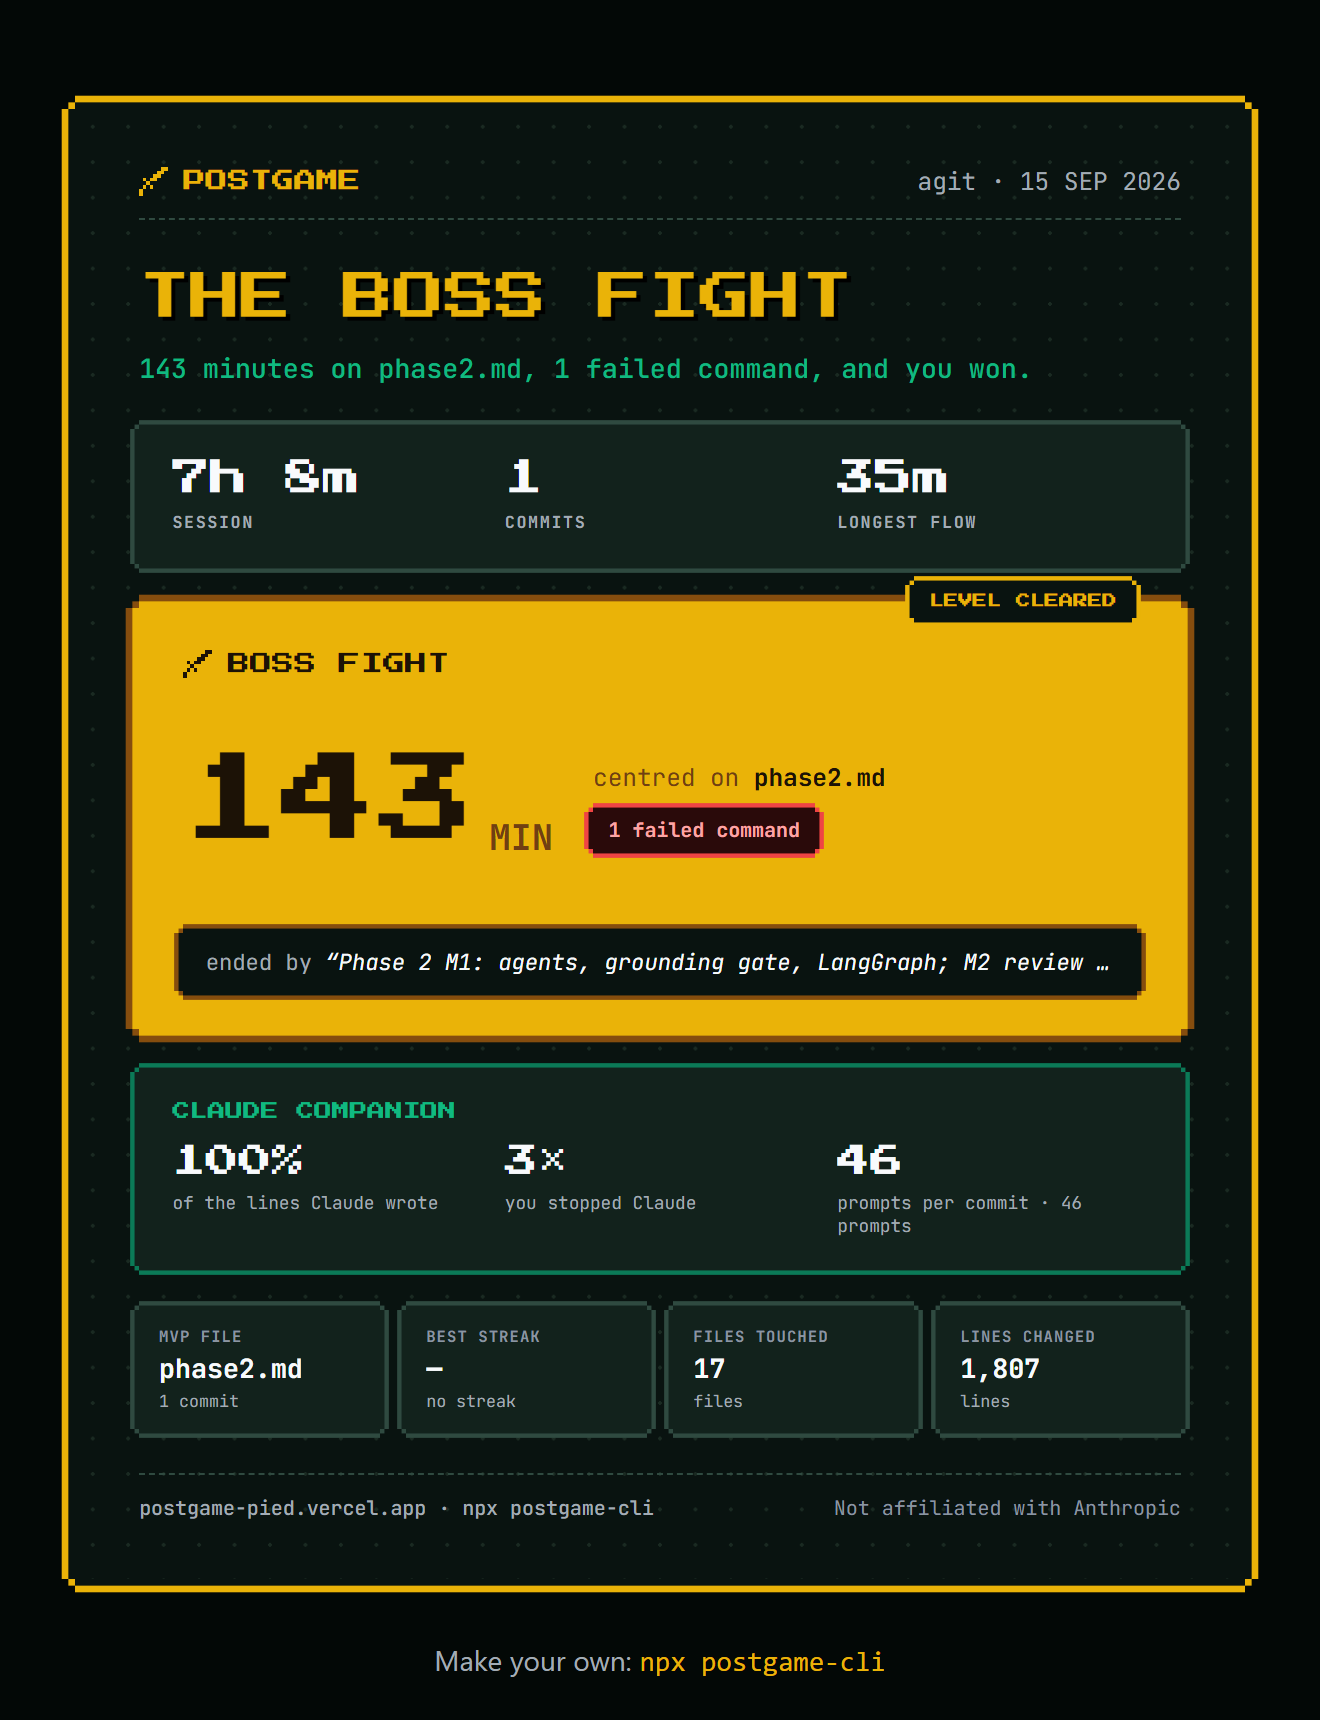
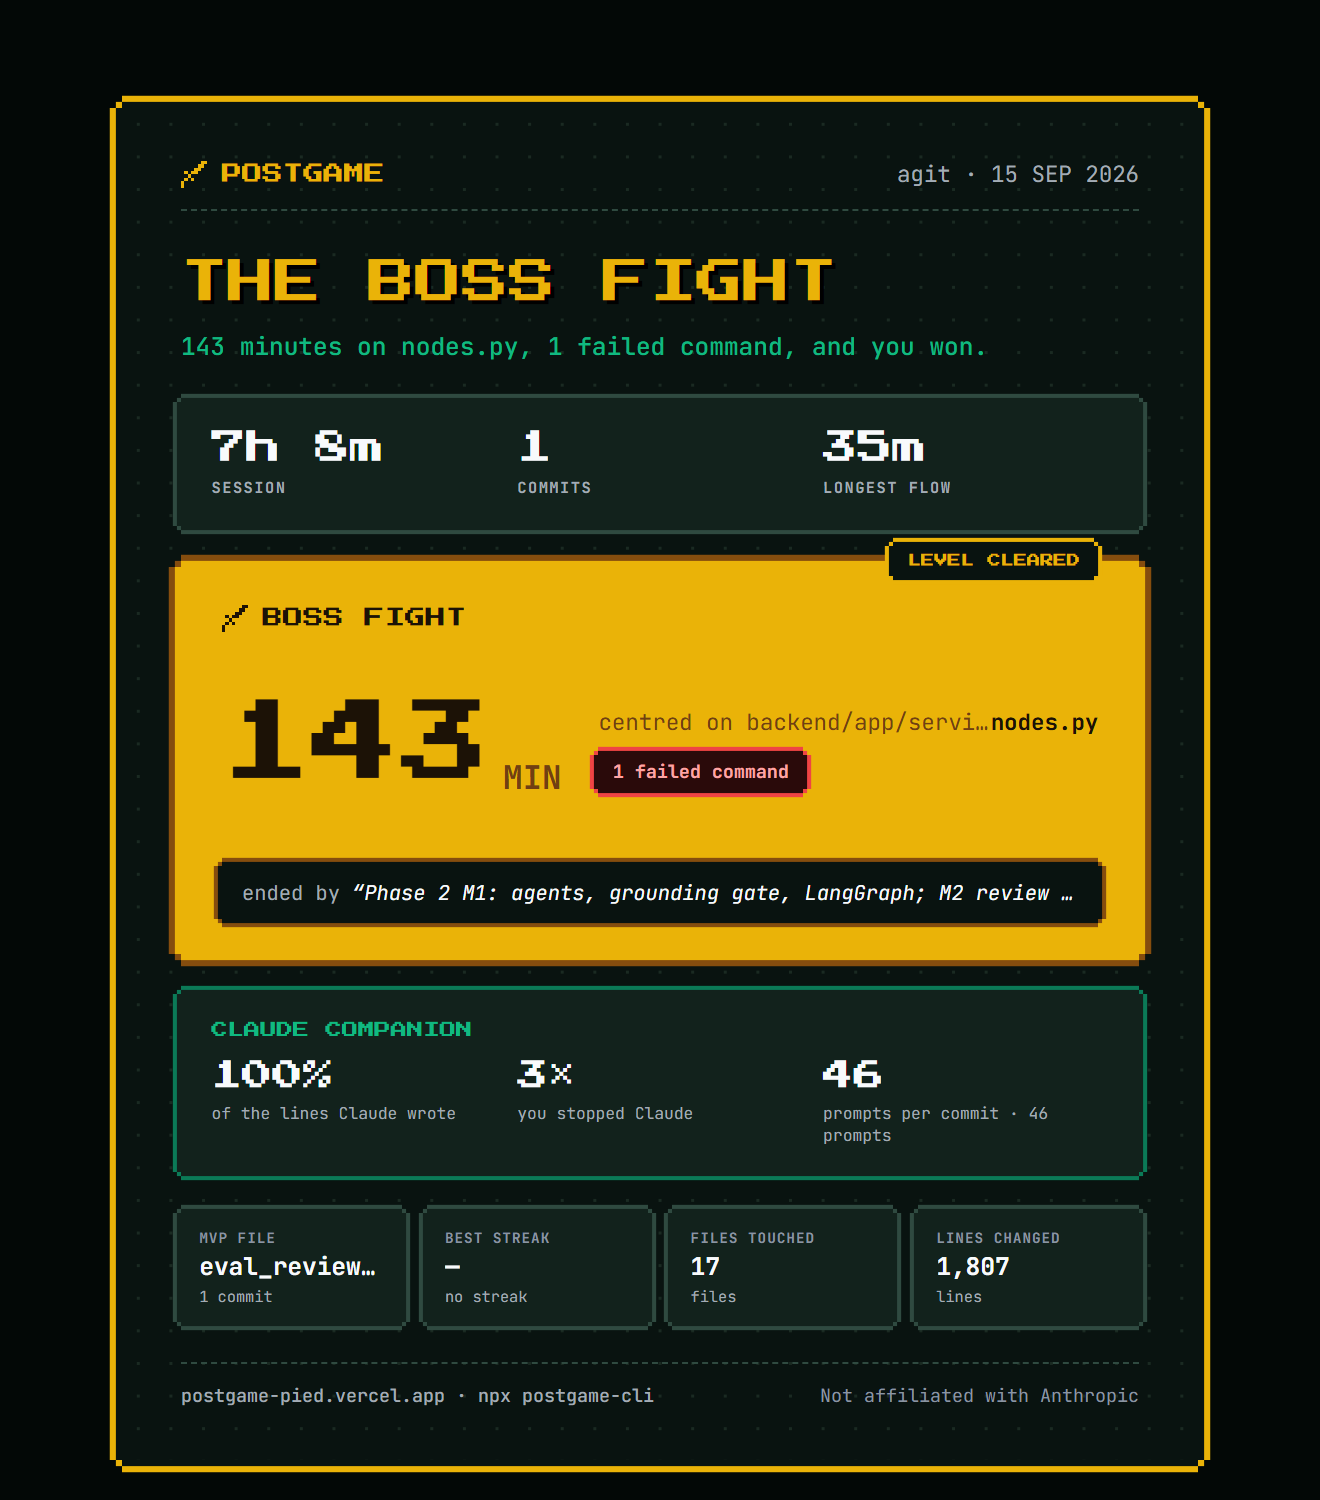
added more recap cards

diff --git a/web/components/SampleGallery.tsx b/web/components/SampleGallery.tsx
@@ -1,0 +1,36 @@
+import Link from "next/link";
+import Card from "@/components/Card/Card";
+import type { Recap } from "@/components/Card/types";
+import { SAMPLES } from "@/components/Card/format";
+import { redis, recapKey } from "@/lib/kv";
+
+export async function getSamples() {
+  try {
+    const recaps = await redis.mget<(Recap | null)[]>(...SAMPLES.map((s) => recapKey(s.id)));
+    return SAMPLES.map((s, i) => ({ ...s, recap: recaps[i] })).filter((s) => s.recap) as
+      (typeof SAMPLES[number] & { recap: Recap })[];
+  } catch {
+    return []; // storage down: the section just hides
+  }
+}
+
+// A row of small real cards, like a level-select screen. Scrolls sideways on phones.
+export default async function SampleGallery({ current }: { current?: string }) {
+  const samples = (await getSamples()).filter((s) => s.id !== current);
+  if (!samples.length) return null;
+
+  return (
+    <div className="-mx-4 flex snap-x gap-6 overflow-x-auto px-4 pb-4 sm:mx-0 sm:grid sm:grid-cols-2 sm:overflow-visible sm:px-0 lg:grid-cols-4">
+      {samples.map((s) => (
+        <Link key={s.id} href={`/r/${s.id}`} className="group flex w-[220px] shrink-0 snap-start flex-col gap-3 sm:w-auto">
+          <div className="transition-transform group-hover:-translate-y-1">
+            <Card recap={s.recap} idless />
+          </div>
+          <span className="font-pixel text-[10px] text-[#a3acb5] group-hover:text-[#eab308]">
+            {s.label.toUpperCase()} · {s.recap.repo}
+          </span>
+        </Link>
+      ))}
+    </div>
+  );
+}

diff --git a/web/app/r/[id]/page.tsx b/web/app/r/[id]/page.tsx
@@ -3,6 +3,8 @@ import { notFound } from "next/navigation";
 import { cache } from "react";
 import Card from "@/components/Card/Card";
 import CardActions from "@/components/Card/CardActions";
+import SampleGallery from "@/components/SampleGallery";
+import { SAMPLES } from "@/components/Card/format";
 import type { Recap } from "@/components/Card/types";
 import { redis, recapKey } from "@/lib/kv";
 
@@ -25,8 +27,10 @@ export async function generateMetadata({ params }: PageProps<"/r/[id]">): Promis
 }
 
 export default async function RecapPage({ params }: PageProps<"/r/[id]">) {
-  const recap = await getRecap((await params).id);
+  const { id } = await params;
+  const recap = await getRecap(id);
   if (!recap) notFound();
+  const isSample = SAMPLES.some((s) => s.id === id);
 
   return (
     <main className="flex flex-1 flex-col items-center gap-6 px-4 py-8 sm:py-12">
@@ -38,6 +42,14 @@ export default async function RecapPage({ params }: PageProps<"/r/[id]">) {
       <p className="text-sm text-[#a3acb5]">
         Make your own: <code className="text-[#eab308]">npx postgame-cli</code>
       </p>
+
+      {/* Samples link to each other, so a visitor can flip through them */}
+      {isSample && (
+        <section className="flex w-full max-w-5xl flex-col gap-6 pt-12">
+          <h2 className="font-pixel text-sm text-[#10b981]">MORE SAMPLE RECAPS</h2>
+          <SampleGallery current={id} />
+        </section>
+      )}
     </main>
   );
 }

diff --git a/cli/analyze/files.js b/cli/analyze/files.js
@@ -1,3 +1,14 @@
+// Docs and notes never become the boss-fight or MVP file — unless the session touched nothing else.
+export const isDoc = (f) => /\.(md|mdx|markdown|txt|rst|adoc)$/i.test(f);
+
+// Highest-scoring file; ties go to the higher tiebreak value.
+export function pickFile(scores, tiebreak = {}) {
+  const all = Object.entries(scores);
+  const code = all.filter(([f]) => !isDoc(f));
+  const ranked = (code.length ? code : all).sort((a, b) => b[1] - a[1] || (tiebreak[b[0]] ?? 0) - (tiebreak[a[0]] ?? 0));
+  return ranked[0]?.[0] ?? null;
+}
+
 // Churn per file, the MVP file, and how much of the committed code Claude wrote.
 export function fileStats(commits, bossFile, claudeLinesAdded) {
   const files = {};
@@ -10,8 +21,10 @@ export function fileStats(commits, bossFile, claudeLinesAdded) {
     }
   }
 
-  const score = (f, s) => s.commits * 3 + s.linesChanged / 10 + (f === bossFile ? 20 : 0);
-  const [mvpPath, mvp] = Object.entries(files).sort((a, b) => score(...b) - score(...a))[0] ?? [];
+  const scores = {};
+  for (const [f, s] of Object.entries(files)) scores[f] = s.commits * 3 + s.linesChanged / 10 + (f === bossFile ? 20 : 0);
+  const mvpPath = pickFile(scores);
+  const mvp = files[mvpPath];
 
   // Per file, Claude can't have written more than was committed — so the total stays ≤ 100%.
   let claudeLinesPct = null;

diff --git a/web/app/page.tsx b/web/app/page.tsx
@@ -1,6 +1,7 @@
 import Link from "next/link";
 import Card from "@/components/Card/Card";
 import CopyCommand from "@/components/CopyCommand";
+import SampleGallery from "@/components/SampleGallery";
 import { Sword } from "@/components/Card/blocks";
 import type { Recap } from "@/components/Card/types";
 import { GITHUB_URL, NPM_URL, SAMPLE_ID } from "@/components/Card/format";
@@ -74,9 +75,18 @@ export default async function Home() {
 
         {sample && (
           <Link href={`/r/${SAMPLE_ID}`} aria-label="Open the sample recap" className="mx-auto w-full max-w-[420px]">
-            <Card recap={sample} />
+            <Card recap={sample} idless />
           </Link>
         )}
+      </section>
+
+      {/* Sample recaps — all real sessions */}
+      <section id="samples" className="flex flex-col gap-6">
+        <div className="flex flex-col gap-2">
+          <h2 className={heading}>SAMPLE RECAPS</h2>
+          <p className="text-[#a3acb5]">Real sessions, real numbers. Pick one to open the full card.</p>
+        </div>
+        <SampleGallery />
       </section>
 
       {/* How it works */}

diff --git a/cli/analyze/bossFight.js b/cli/analyze/bossFight.js
@@ -1,6 +1,5 @@
 import { activeMin } from './timeline.js';
-
-const top = (counts) => Object.entries(counts).sort((a, b) => b[1] - a[1])[0]?.[0] ?? null;
+import { pickFile } from './files.js';
 
 // Chunks are: session start → first commit, then commit → next commit.
 // The highest struggle score wins, if it lasted over 15 active minutes (prd.md §7).
@@ -24,7 +23,8 @@ export function bossFight(events, breakMin, hasClaude) {
       best = {
         score,
         minutes,
-        file: top(edits) ?? top(e.fileLines), // git-only: biggest file in the commit that ended it
+        // most-edited file (ties: more lines in the ending commit); git-only: biggest file in that commit
+        file: pickFile(edits, e.fileLines) ?? pickFile(e.fileLines),
         endedBy: e.message,
         failedCommands: hasClaude ? failed : null,
       };

diff --git a/web/components/Card/Card.tsx b/web/components/Card/Card.tsx
@@ -3,10 +3,11 @@ import type { Recap } from "./types";
 import { BigStats, BossFight, ClaudeStrip, Footer, Hero, SmallStats } from "./blocks";
 import { CARD_ID } from "./format";
 
-export default function Card({ recap }: { recap: Recap }) {
+// `idless` for extra cards on a page (gallery), so the PNG export only ever finds the main one.
+export default function Card({ recap, idless = false }: { recap: Recap; idless?: boolean }) {
   const ai = recap.ai.available ? recap.ai : null;
   return (
-    <div className="pg-frame" id={CARD_ID}>
+    <div className="pg-frame" id={idless ? undefined : CARD_ID}>
       <article className={`pg-card${ai ? "" : " git-only"}${!ai && !recap.bossFight ? " sparse" : ""}`}>
         <div className="recap px px-lg">
           <Hero repo={recap.repo} startedAt={recap.startedAt} archetype={recap.archetype} />

diff --git a/web/components/Card/format.ts b/web/components/Card/format.ts
@@ -2,7 +2,14 @@ export const SITE = "postgame-pied.vercel.app";
 
 export const CARD_ID = "pg-card"; // the element the PNG export captures
 
-export const SAMPLE_ID = "x7jg9d"; // the agit Boss Fight card shown on the homepage
+// Real sessions shown as samples. The first one is the homepage hero card.
+export const SAMPLES = [
+  { id: "2zmnpw", label: "The Boss Fight" },
+  { id: "assdjz", label: "Deep Work" },
+  { id: "jup35n", label: "Autopilot" },
+  { id: "9iiq2n", label: "No Claude logs" },
+];
+export const SAMPLE_ID = SAMPLES[0].id;
 export const GITHUB_URL = "https://github.com/jaineel132/postgame";
 export const NPM_URL = "https://www.npmjs.com/package/postgame-cli";
 

diff --git a/README.md b/README.md
@@ -3,11 +3,11 @@
 **Spotify Wrapped for a single coding session.** Built from your git history and your Claude Code logs, and nothing leaves your machine but numbers and names.
 
 <p align="center">
-  <img src="docs/card.png" alt="A postgame recap card: The Boss Fight — 143 minutes on phase2.md" width="480">
+  <img src="docs/card.png" alt="A postgame recap card: The Boss Fight — 143 minutes on nodes.py" width="480">
 </p>
 
 <p align="center">
-  <a href="https://postgame-pied.vercel.app/r/x7jg9d"><b>▶ See a sample recap</b></a>
+  <a href="https://postgame-pied.vercel.app/r/2zmnpw"><b>▶ See a sample recap</b></a>
 </p>
 
 ```
